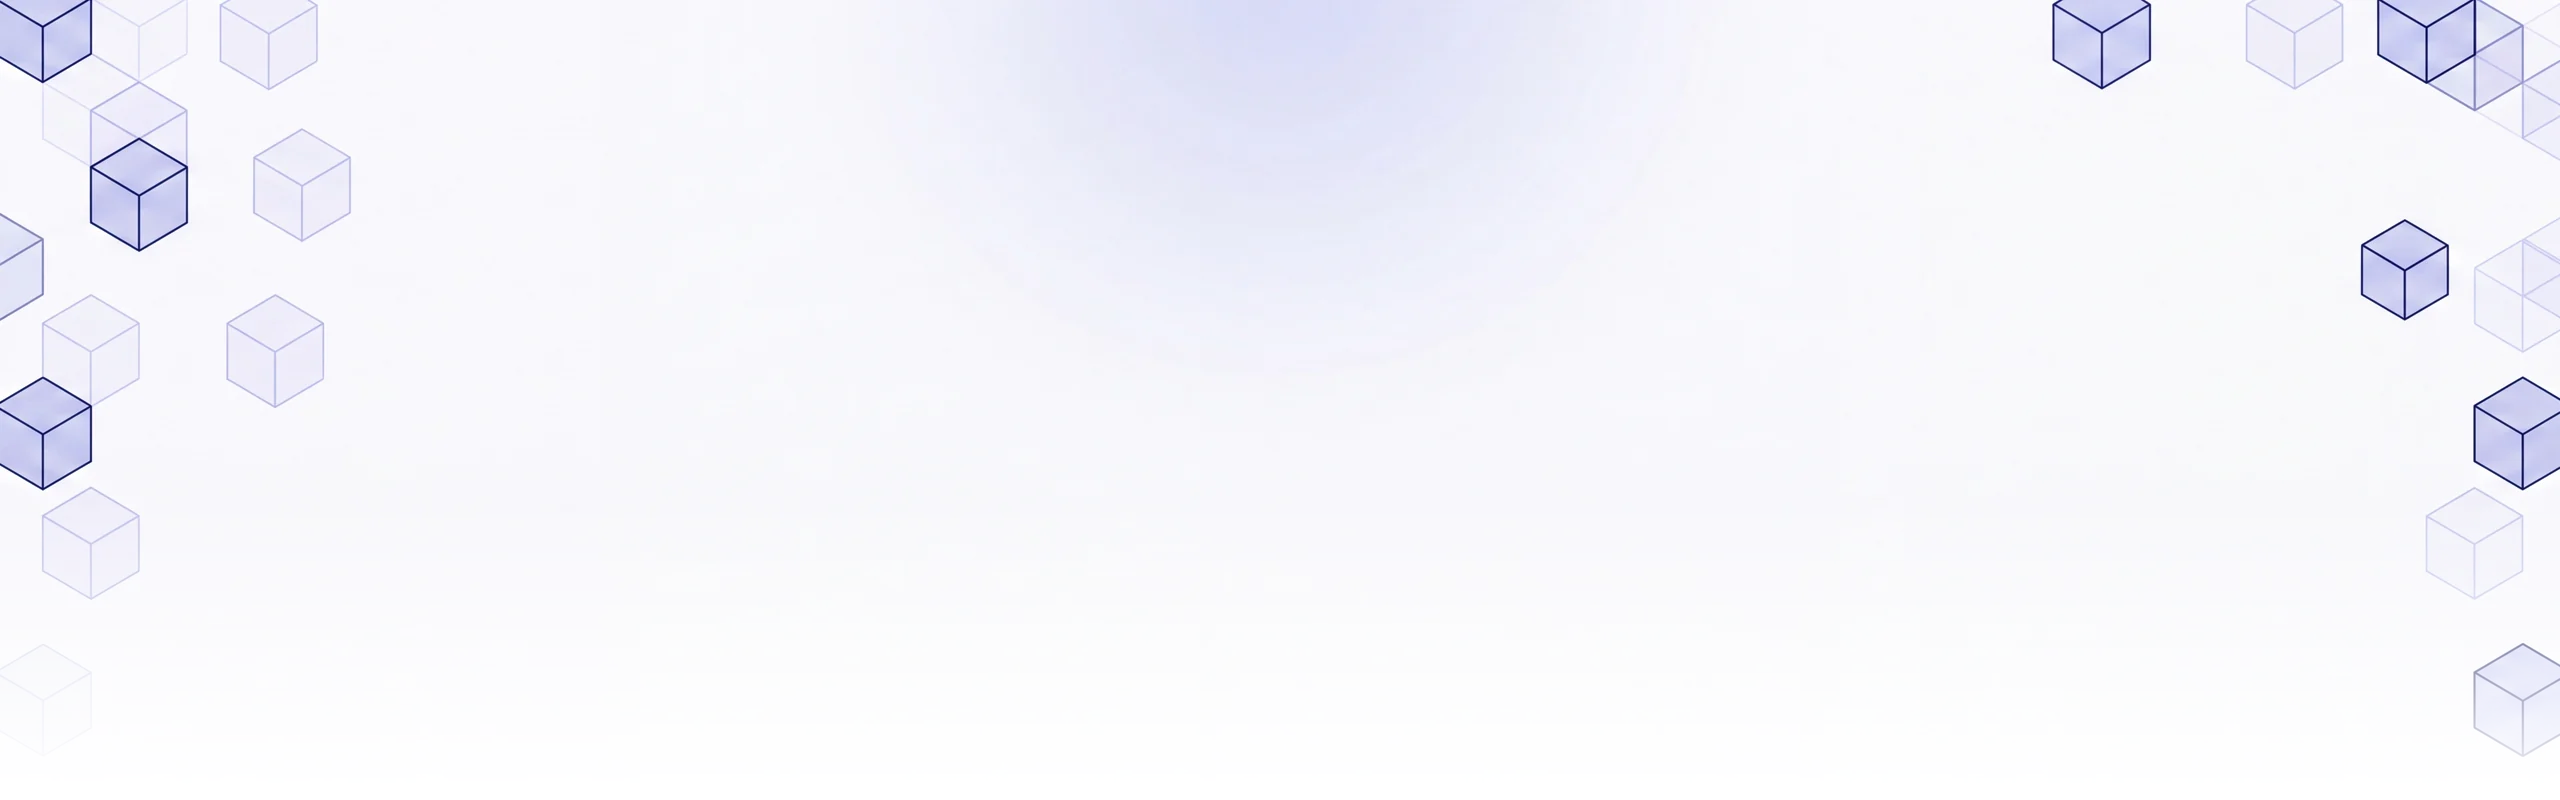
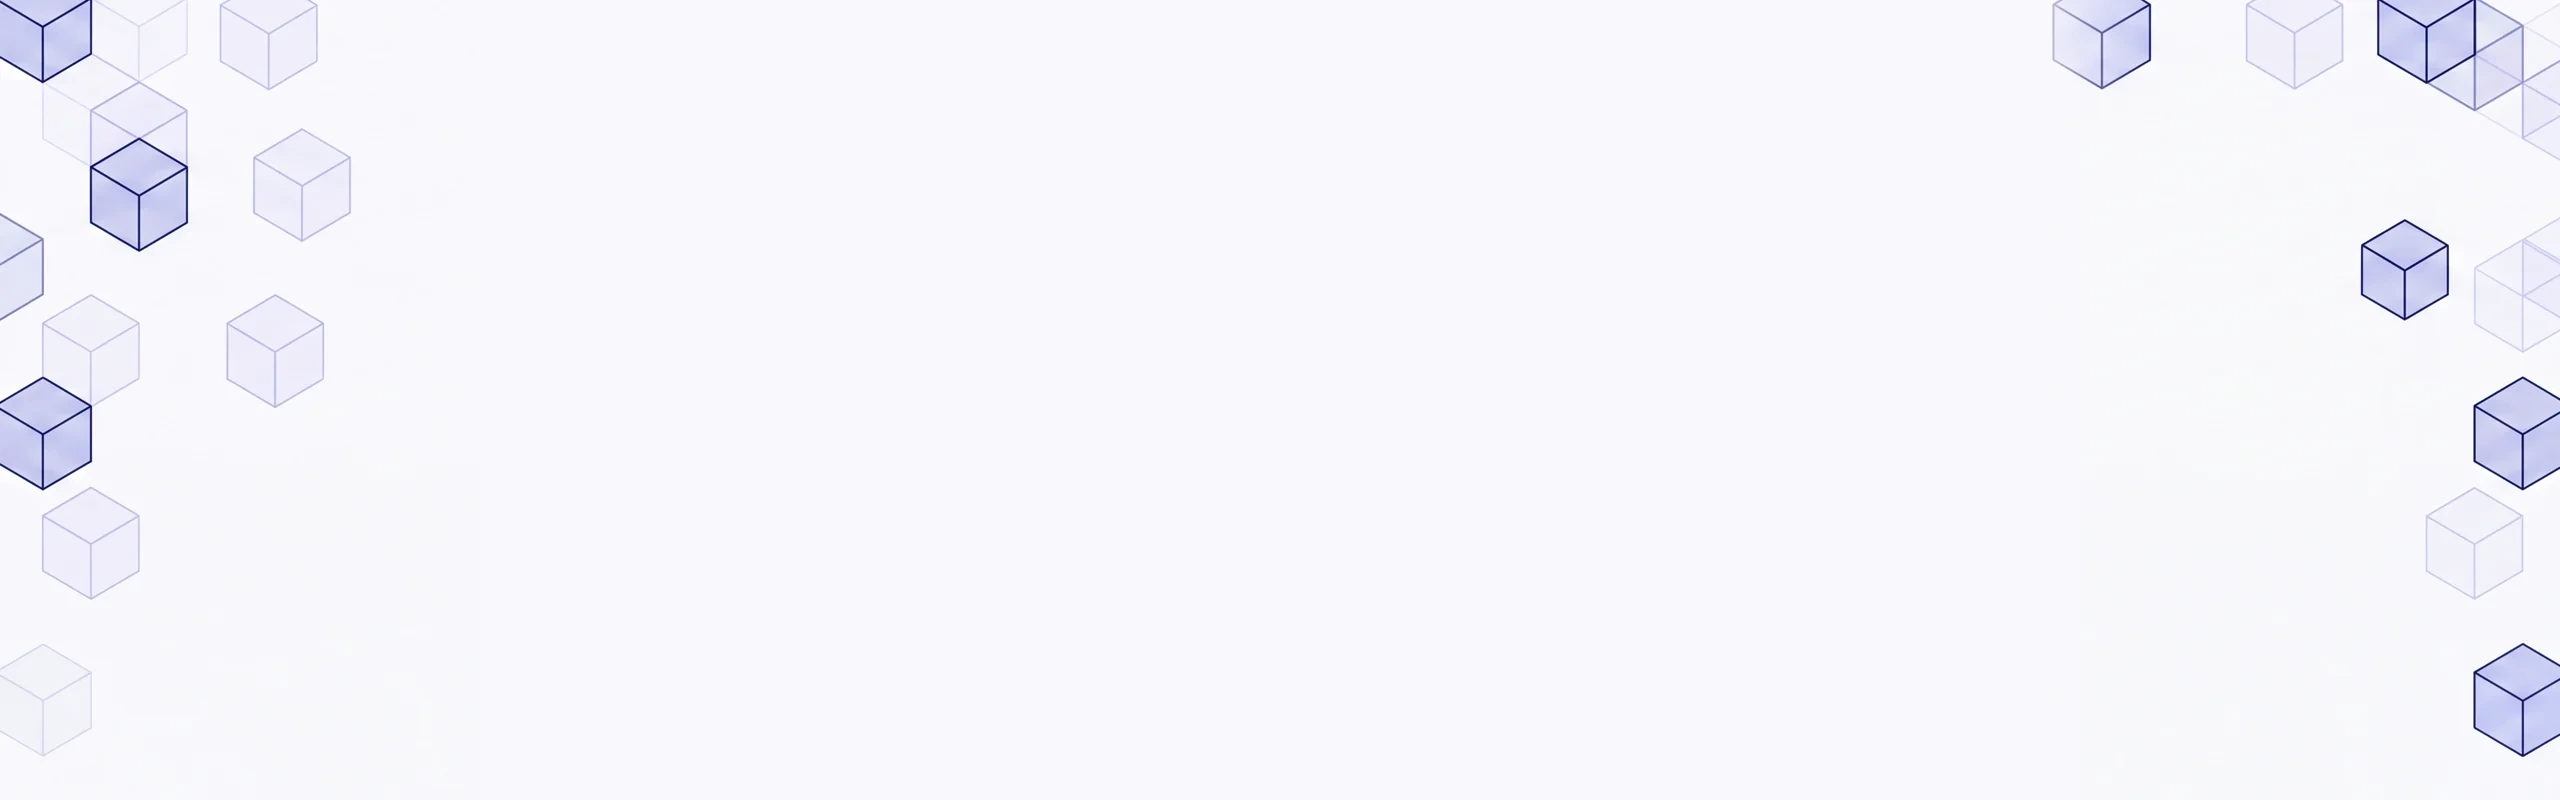
Hero: remove the blue blush behind the headline
Two sources, both removed (owner directive 2026-08-21):

- the radial-gradient(accent-soft) layer under .hero and .page-hero
- a matching glow baked into public/bg/hero-cubes.webp, flattened across
  the cube-free centre band (feathered so the edge cubes are untouched)

The hero and inner-page headers now sit on flat paper under the cube
artwork. Also carries the hero optical-centring work from 2026-08-20
(--hero-optical-shift and the tracked-headline padding trim), which was
sitting uncommitted in the same file.

Changed region(s): [[0.4375, 0.0, 0.5625, 0.1562], [0.9688, 0.8125, 1.0, 0.9375], [0.7812, 0.0, 0.8125, 0.0938]]

diff --git a/src/app/globals.css b/src/app/globals.css
@@ -193,17 +193,25 @@ section { position: relative; }
 /* ---------- hero ---------- */
 /* Hero backdrop: a field of isometric cubes echoing the KodableNewLogo mark.
    The artwork's centre is deliberately empty, so the headline, CTA and stat
-   band sit on flat paper at full contrast. The radial gradient stays beneath
-   it as the fallback if the image fails to load. */
+   band sit on flat paper at full contrast. No radial glow behind it (owner
+   directive 2026-08-21): the paper stays flat under the artwork. */
 .hero { padding: clamp(40px, 5.4vw, 72px) 0 clamp(48px, 6vw, 80px); background:
     url("/bg/hero-cubes.webp") top center / 100% auto no-repeat,
-    radial-gradient(105% 78% at 50% -18%, var(--accent-soft) 0%, rgba(229,230,245,0) 60%),
     var(--paper); }
 .hero-grid { display: grid; gap: clamp(34px, 5vw, 56px); align-items: center; }
 /* Single-column hero (chat mockup removed 2026-08-12): centre the copy and let
    it use the full measure, otherwise it keeps the half-width column it was
    sized for and leaves the right side of the section empty. */
-.hero-copy { max-width: 62ch; margin-inline: auto; text-align: center; }
+.hero-copy {
+  max-width: 62ch; margin-inline: auto; text-align: center;
+  /* Optical nudge (owner directive 2026-08-20): geometrically the block is dead
+     centre, but against the cube field it reads a touch right, so the WHOLE
+     copy block (headline, sub, CTAs, stat band) moves left as one unit and
+     keeps its internal alignment. Tune with the variable, not per element. */
+  --hero-optical-shift: clamp(0px, 0.9vw, 12px);
+  transform: translateX(calc(-1 * var(--hero-optical-shift)));
+}
+@media (max-width: 640px) { .hero-copy { --hero-optical-shift: 0px; } }
 .place {
   display: inline-flex; align-items: center; gap: 8px;
   background: var(--card); border: 1px solid var(--line); border-radius: 999px;
@@ -219,7 +227,11 @@ h1.hero-h {
   max-width: 20ch;
   text-wrap: balance;
 }
-.hero-copy h1.hero-h { margin-inline: auto; }
+/* Optical centring: letter-spacing is painted after the LAST glyph too, so a
+   -0.045em tracked line overflows its box on the right and the whole headline
+   reads ~1.3px right of centre against the untracked copy below it. Trimming
+   the same amount off the right edge puts the ink back on the page axis. */
+.hero-copy h1.hero-h { margin-inline: auto; padding-right: 0.045em; }
 h1.hero-h .hi { color: var(--accent-deep); }
 h1.hero-h .hi-red { color: var(--accent-red); }
 .hero-sub { font-size: clamp(1.06rem, 1rem + 0.5vw, 1.28rem); color: var(--ink-mute); margin-top: 20px; max-width: 40ch; }
@@ -268,13 +280,12 @@ h1.hero-h .hi-red { color: var(--accent-red); }
    whatever the title wraps to, which leaves no cut edge at the boundary. */
 .page-hero { padding: clamp(34px, 5vw, 64px) 0 clamp(28px, 4vw, 44px); background:
     url("/bg/hero-cubes.webp") center / cover no-repeat,
-    radial-gradient(105% 78% at 50% -18%, var(--accent-soft) 0%, rgba(229,230,245,0) 60%),
     var(--paper); }
 .page-hero .wrap { text-align: center; }
 .breadcrumb { display: flex; align-items: center; justify-content: center; gap: 8px; font-size: .9rem; color: var(--ink-mute); margin-bottom: 16px; flex-wrap: wrap; }
 .breadcrumb a:hover { color: var(--accent-deep); }
 .breadcrumb .sep { opacity: .5; }
-h1.page-h { font-size: clamp(2.1rem, 1.4rem + 3.4vw, 3.5rem); letter-spacing: -0.045em; max-width: 20ch; margin-inline: auto; text-wrap: balance; }
+h1.page-h { font-size: clamp(2.1rem, 1.4rem + 3.4vw, 3.5rem); letter-spacing: -0.045em; max-width: 20ch; margin-inline: auto; text-wrap: balance; padding-right: 0.045em; }
 .page-sub { font-size: clamp(1.04rem, 1rem + 0.4vw, 1.22rem); color: var(--ink-mute); margin-top: 18px; max-width: 56ch; margin-inline: auto; text-wrap: pretty; }
 /* rows that default to flex-start inside a hero (CTAs, article byline, the
    service icon + bucket) ride the same centre line */
